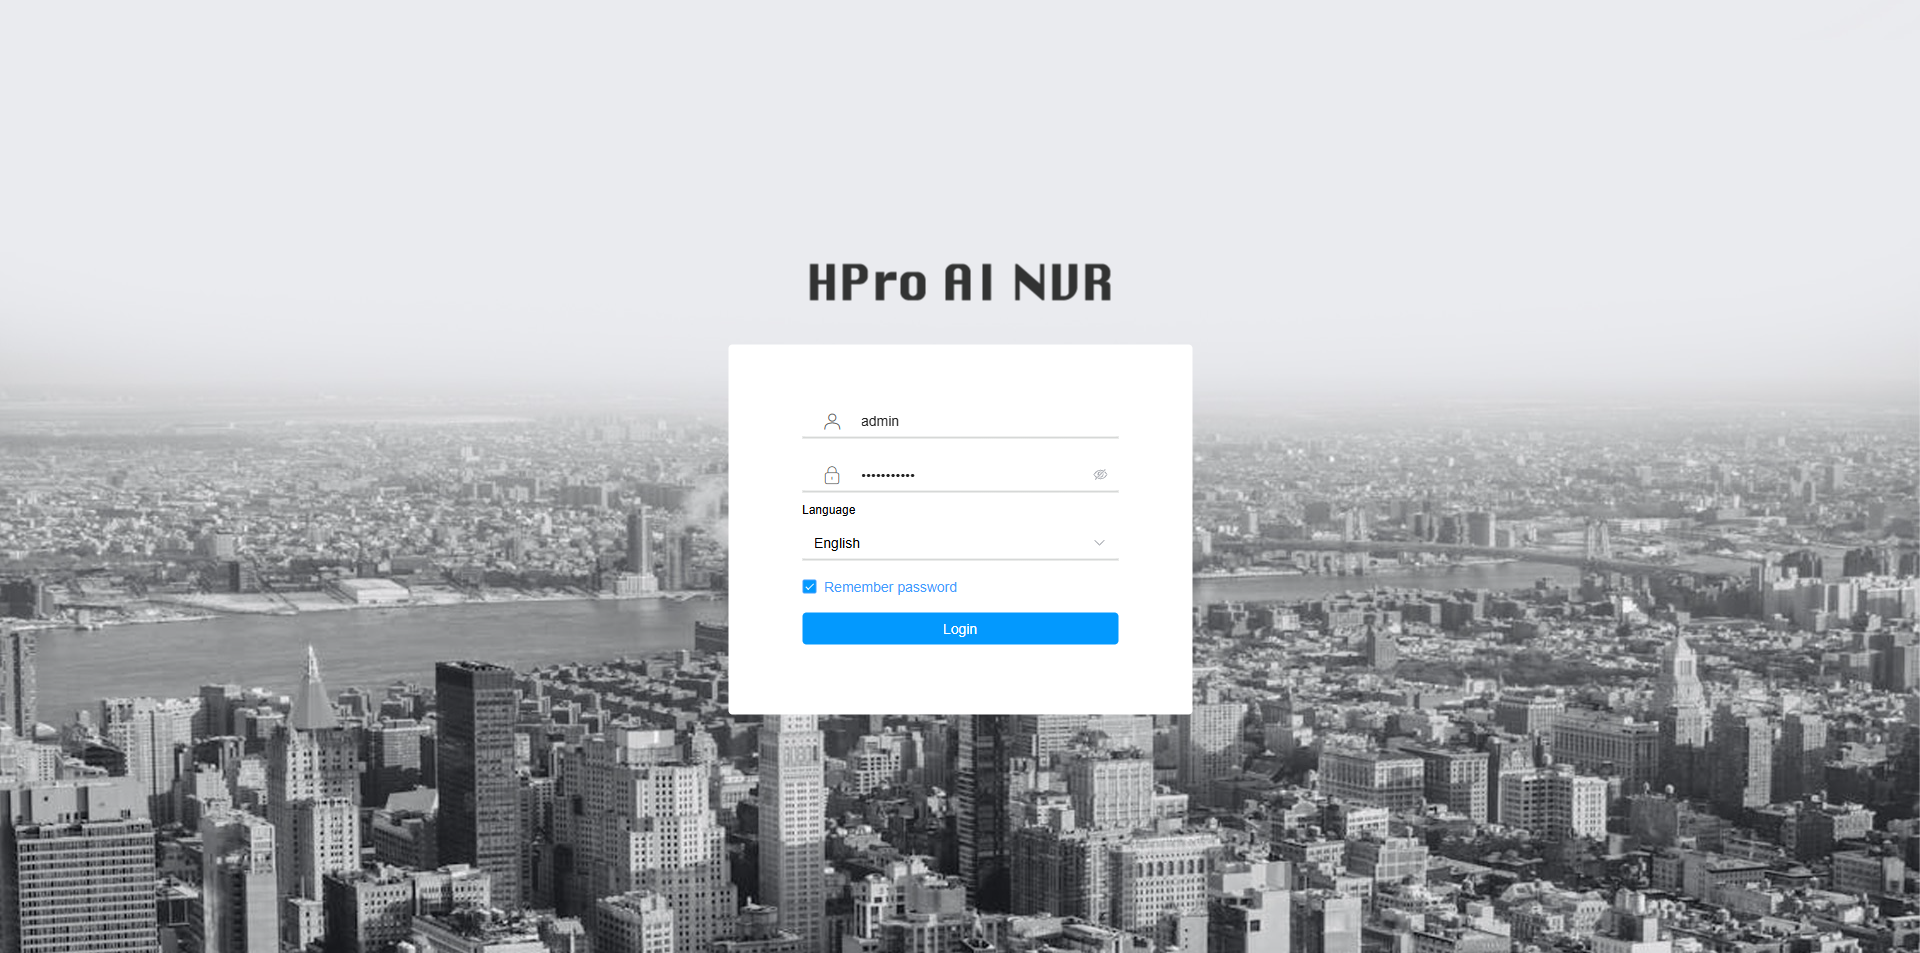
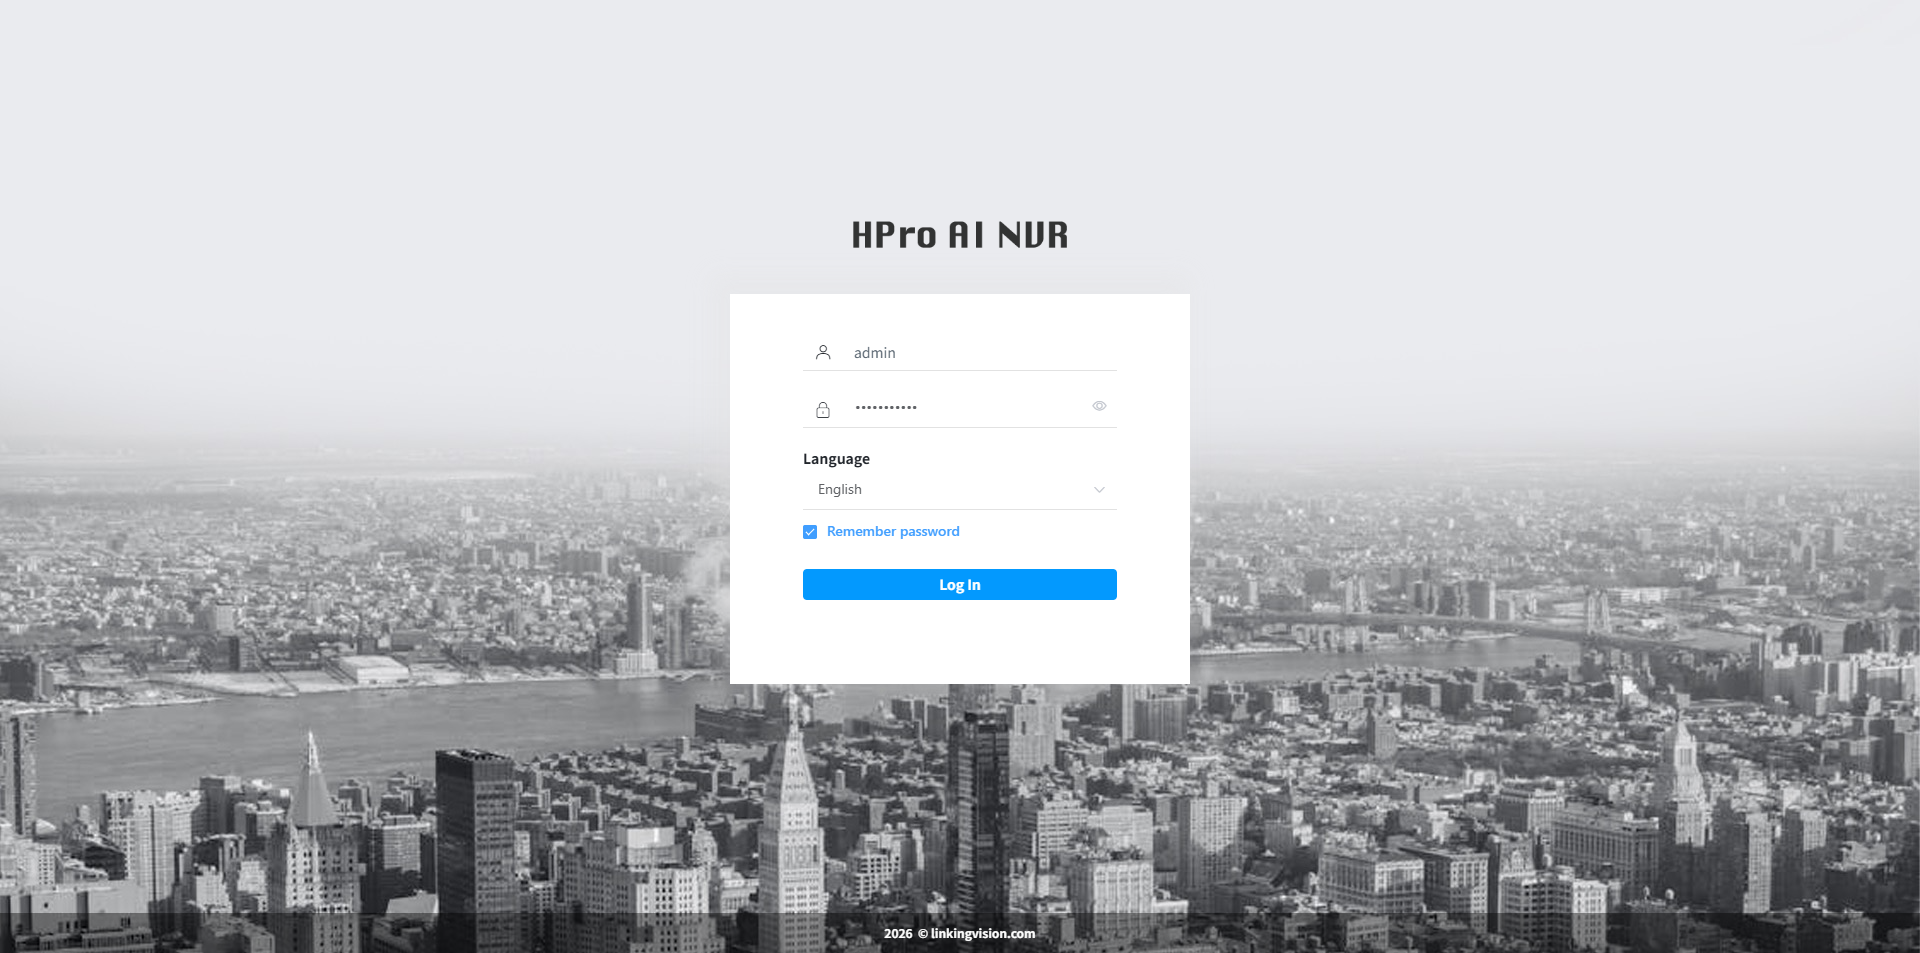
update readme

diff --git a/src/views/Configuration/Device/DeviceSDK.vue b/src/views/Configuration/Device/DeviceSDK.vue
@@ -84,10 +84,16 @@ const addFileTreeRef = ref();
 
 const addHandleCheck = (data: any, info: any) => {
   const currentKey = data.devPartitionId;
-  addTreeRef.value.setCheckedKeys([]);  // deselect all first
-  addTreeRef.value.setCheckedKeys([currentKey]) // then select only current node
-  addForm.value.devPartitionId = currentKey;
-  addForm.value.devPartitionName = data.devPartitionName;
+  // 已选中该节点则取消，否则单选切换
+  if (addForm.value.devPartitionId == currentKey) {
+    addTreeRef.value.setCheckedKeys([]);
+    addForm.value.devPartitionId = '';
+    addForm.value.devPartitionName = '';
+  } else {
+    addTreeRef.value.setCheckedKeys([currentKey]);
+    addForm.value.devPartitionId = currentKey;
+    addForm.value.devPartitionName = data.devPartitionName;
+  }
 }
 const onQueryChanged = (query: string) => {
   addTreeRef.value!.filter(query)
@@ -162,7 +168,9 @@ const add = () => {
   addForm.value.devPartitionId = devData[0]?.devPartitionId;
   addForm.value.devPartitionName = devData[0]?.devPartitionName;
   nextTick(() => {
-    addTreeRef.value.setCheckedKeys([devData[0]?.devPartitionId || ''])
+    nextTick(() => {
+      addTreeRef.value?.setCheckedKeys([devData[0]?.devPartitionId || ''])
+    })
   })
   
 }
@@ -360,10 +368,16 @@ const filterMethod3 = (query: string, node: any) => {
 }
 const editHandleCheck = (data: any, info: any) => {
   const currentKey = data.devPartitionId;
-  editTreeRef.value.setCheckedKeys([]);  // deselect all first
-  editTreeRef.value.setCheckedKeys([currentKey]) // then select only current node
-  editForm.value.devPartitionId = currentKey;
-  editForm.value.devPartitionName = data.devPartitionName;
+  // 已选中该节点则取消，否则单选切换
+  if (editForm.value.devPartitionId == currentKey) {
+    editTreeRef.value.setCheckedKeys([]);
+    editForm.value.devPartitionId = '';
+    editForm.value.devPartitionName = '';
+  } else {
+    editTreeRef.value.setCheckedKeys([currentKey]);
+    editForm.value.devPartitionId = currentKey;
+    editForm.value.devPartitionName = data.devPartitionName;
+  }
 }
 const onQueryChanged4 = () => {
   editFileTreeRef.value.filter(filterText4.value);
@@ -469,6 +483,7 @@ const delRow = (id: string) => {
       })
       tableData.value = tableData.value.filter(item => item.devId !== Number(id));
       total.value = tableData.value.length;
+      Refresh()
     }
   }).catch(() => {})
 }
@@ -497,6 +512,7 @@ const delAll = () => {
         duration: 2000
       })
       GetDeviceList()
+      Refresh()
     }
   })
 }
@@ -548,7 +564,14 @@ const onvifsearchAdd = () => {
   // addForm.value.token = uuid(4)
   addForm.value.ip = selectOnvif.value.strIp;
   addForm.value.port = selectOnvif.value.strPort;
+  addForm.value.devPartitionId = devData[0]?.devPartitionId;
+  addForm.value.devPartitionName = devData[0]?.devPartitionName;
   addVisiable.value = true;
+  nextTick(() => {
+    nextTick(() => {
+      addTreeRef.value?.setCheckedKeys([devData[0]?.devPartitionId || ''])
+    })
+  })
 }
 const Refresh = () => {
   if (event.value) {
@@ -563,8 +586,12 @@ const onvifsearch = () => {
   const pbconf = {
     callback: EventbackCB
   }
+  // Derive WebSocket protocol from the API URL, not the browser location.
+  // When the backend is HTTPS the WebSocket must use wss://, not ws://.
+  const apiUrl = import.meta.env.VITE_APP_URL as string || ''
+  const protocol = apiUrl.startsWith('https') ? 'https:' : window.location.protocol
   const conf = {
-    protocol: window.location.protocol,
+    protocol,
     host: userStore.WSROOT,
     rootpath: '/',
     apipath: "uapi/v1/h5sonvifsearchapi",
@@ -638,7 +665,7 @@ onBeforeUnmount(() => {
               v-model="addForm.devPartitionName"
               style="width: 100%"
               disabled
-              placeholder="Please input"
+              :placeholder="t('Common.comm_please_input')"
             />
             <div class="tow_node">
               <el-input v-model="filterText1" @input="onQueryChanged" style="width: 100%" :placeholder="t('Common.comm_filtration')" :prefix-icon="Search"></el-input>
@@ -766,7 +793,7 @@ onBeforeUnmount(() => {
               v-model="editForm.devPartitionName"
               style="width: 100%"
               disabled
-              placeholder="Please input"
+              :placeholder="t('Common.comm_please_input')"
             />
             <div class="tow_node">
               <el-input v-model="filterText3" @input="onQueryChanged3" style="width: 100%" :placeholder="t('Common.comm_filtration')" :prefix-icon="Search"></el-input>
@@ -889,7 +916,7 @@ onBeforeUnmount(() => {
       </div>
     </div>
     <el-table v-if="!addVisiable && !editVisiable"
-      :data="tableData.filter(item => !filterText || item.name.toLowerCase().includes(filterText.toLowerCase())).slice((currentPage - 1) * pageSize, currentPage * pageSize)" 
+      :data="tableData.filter(item => !filterText || item.name.toLowerCase().includes(filterText.toLowerCase())).slice((currentPage - 1) * pageSize, currentPage * pageSize)"
        @selection-change="selectChange" height="100%" style="width: 100%;">
       <el-table-column type="selection" width="55" />
       <el-table-column :label="t('CommTableEdit.comm_table_serial_number')" type="index" align="center" width="120"></el-table-column>
@@ -1020,7 +1047,16 @@ onBeforeUnmount(() => {
 
   :deep(.el-table) {
     flex: 1;
+    min-height: 0;
+    display: flex;
+    flex-direction: column;
+    .el-table__header-wrapper {
+      flex-shrink: 0;
+    }
     .el-table__body-wrapper {
+      flex: 1;
+      min-height: 0;
+      overflow-y: auto;
       background-color: #181818;
     }
   }

diff --git a/src/App.vue b/src/App.vue
@@ -1,14 +1,18 @@
 <script setup lang="ts">
-  import { onMounted, watch } from 'vue';
+  import { computed, onMounted, watch } from 'vue';
   import { useI18n } from 'vue-i18n';
   import { useUserStore } from './store/user';
+  import en from 'element-plus/es/locale/lang/en'
+  import zhTw from 'element-plus/es/locale/lang/zh-tw'
 
   const { t, locale } = useI18n();
   const updateDocementTitle = () => {
     document.title = t('HProTitle.hpro_title')
   }
   const userStore = useUserStore();
-  
+
+  const elLocale = computed(() => locale.value === 'zhcht' ? zhTw : en)
+
   onMounted(() => {
     updateDocementTitle()
     let root = import.meta.env.VITE_APP_URL;
@@ -29,7 +33,9 @@
 </script>
 
 <template>
-  <router-view></router-view>
+  <el-config-provider :locale="elLocale">
+    <router-view></router-view>
+  </el-config-provider>
 </template>
 
 <style lang="scss">

diff --git a/README.md b/README.md
@@ -1,7 +1,11 @@
 # HPro AI NVR web
 
-![Login](./doc/img/login.png)
 ![Grid View](./doc/img/view.png)
+![AI Event](./doc/img/aievent.png)
+![Storage Config](./doc/img/storage.png)
+![Ai Config ](./doc/img/ai1.png)
+![Ai Crossline ](./doc/img/ai2.png)
+![Ai Zone ](./doc/img/ai3.png)
 Developing with Vue 3 in Vite.
 
 ## Node Version
